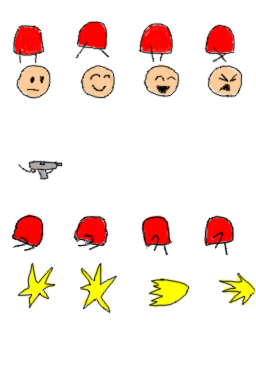
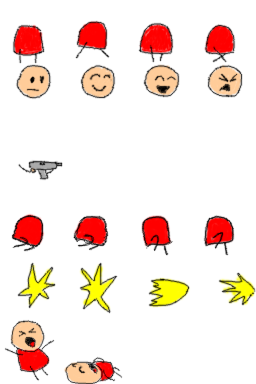
pleardeath, slowmo & back to menu

Changed region(s): [[0.0312, 0.8125, 0.2188, 1.0], [0.25, 0.9062, 0.4688, 1.0]]

diff --git a/core/src/com/madeso/platformer/GameScreen.java b/core/src/com/madeso/platformer/GameScreen.java
@@ -17,7 +17,7 @@ public class GameScreen implements Screen {
     private final OrthographicCamera fontCamera;
     private OrthographicCamera worldCamera;
     PlatformGame game;
-    Player dude;
+    WorldObject dude;
     OrthoMap map;
     GameWorld moveables = new GameWorld();
     Music music;
@@ -34,9 +34,11 @@ public class GameScreen implements Screen {
 
         this.map = game.assetManager.orthoMap(destructor, levelpath);
 
-        this.dude = new Player(this.moveables, game);
-        this.dude.teleport(70,70);
-        this.moveables.spawn(this.dude);
+        Player p = new Player(this.moveables, game);
+        p.teleport(70,70);
+        this.moveables.spawn(p);
+
+        this.dude = p;
 
         // ninja
         this.map.registerCreator("4", new OrthoMap.ObjectCreator() {
@@ -71,7 +73,13 @@ public class GameScreen implements Screen {
     public void render(float delta) {
         Gdx.gl.glClearColor(0, 0, 0, 1);
         Gdx.gl.glClear(GL20.GL_COLOR_BUFFER_BIT);
-        this.moveables.update(delta, this.map);
+        this.moveables.update(delta * GameState.dt, this.map);
+
+        if( GameState.dt > 0.9f && Gdx.input.isTouched() && dude.getClass() == PlayerBody.class ) {
+            game.setScreen(new MainMenuScreen(game));
+            this.dispose();
+            return;
+        }
 
         this.moveables.overlap(Bullet.class, Enemy.class, new GameWorld.Collision() {
             @Override
@@ -80,6 +88,16 @@ public class GameScreen implements Screen {
                 Enemy enemy = (Enemy) right;
                 bullet.destroy();
                 enemy.hurt(bullet.isFacingRight());
+            }
+        });
+
+        this.moveables.overlap(Player.class, Enemy.class, new GameWorld.Collision() {
+            @Override
+            public void collide(WorldObject left, WorldObject right) {
+                Player player = (Player)left;
+                Enemy other = (Enemy) right;
+                dude = player.kill(other.isFacingRight());
+                GameState.dt = 0.2f;
             }
         });
 
@@ -96,13 +114,15 @@ public class GameScreen implements Screen {
         this.fontCamera.update();
         this.game.batch.setProjectionMatrix(fontCamera.combined);
         game.batch.begin();
-        game.font.draw(game.batch, "gamestuff " + dude.toString(), 20, 20);
+        game.font.draw(game.batch, "gamestuff", 20, 20);
         game.batch.end();
     }
 
     private void cameraTrack(WorldObject dude, OrthographicCamera camera) {
-        camera.position.x = NiceValue(dude.getX());
-        camera.position.y = NiceValue(dude.getY());
+        if( dude != null ) {
+            camera.position.x = NiceValue(dude.getX());
+            camera.position.y = NiceValue(dude.getY());
+        }
     }
 
     private float NiceValue(float x) {

diff --git a/core/src/com/madeso/platformer/GenericBody.java b/core/src/com/madeso/platformer/GenericBody.java
@@ -6,21 +6,15 @@ import com.badlogic.gdx.graphics.g2d.SpriteBatch;
 import java.util.Random;
 
 
-public class Body extends GravityObject {
-    private final SmartAnimation dying;
-    private final SmartAnimation dead;
-    private final AnimationGroup anim;
-    private final SmartSound sounddeath;
+public class GenericBody extends GravityObject {
+    protected SmartAnimation dying;
+    protected SmartAnimation dead;
+    protected AnimationGroup anim;
     private float dx = 0;
     private static Random random = new Random();
 
-    public Body(PlatformGame game, int layer) {
+    public GenericBody(PlatformGame game) {
         super(game);
-
-        this.dying = game.assetManager.animation(this.destructor, "enemies.png").setAnimation(0.10f, new int[][]{ {layer,2} });
-        this.dead = game.assetManager.animation(this.destructor, "enemies.png").setAnimation(0.10f, new int[][]{ {layer,3} });
-        this.anim = this.createGroup(this.dying);
-        this.sounddeath = game.assetManager.sound(this.destructor, "enemydies.wav");
     }
 
     public void setup(float x, float y, boolean right, boolean direction) {
@@ -30,8 +24,6 @@ public class Body extends GravityObject {
         forcejump(150.0f + random.nextFloat() * 100.0f);
         dx = 1.0f;
         if( !direction ) dx = -1;
-        this.sounddeath.play();
-        GameState.murder();
 
         dx *= 0.5f + (random.nextFloat() / 0.5f);
     }

diff --git a/core/src/com/madeso/platformer/Player.java b/core/src/com/madeso/platformer/Player.java
@@ -17,6 +17,7 @@ public class Player extends GravityObject {
     private final SmartSound soundSoftThud;
     private final GameWorld world;
     private final SmartAnimation headMurder;
+    private PlayerBody pbody;
     private float airtime = 0.0f;
 
     private final SmartAnimation bodyIdle;
@@ -29,9 +30,17 @@ public class Player extends GravityObject {
     private float gcd = 0.0f;
     private final SmartSound soundGun;
 
+    @Override
+    public void dispose() {
+        super.dispose();
+        if( this.pbody != null )
+            this.pbody.dispose();
+    }
+
     public Player(GameWorld world, PlatformGame game) {
         super(game);
         this.world = world;
+        this.pbody = new PlayerBody(game);
 
         this.soundJump = game.assetManager.sound(this.destructor, "jump.wav");
         this.soundGun = game.assetManager.sound(this.destructor, "gun.wav");
@@ -164,5 +173,14 @@ public class Player extends GravityObject {
         subrender(this.body, batch, cam);
         subrender(this.head, batch, cam);
         subrender(this.gun, batch, cam);
+    }
+
+    public PlayerBody kill(boolean other) {
+        this.removeMe = true;
+        world.add(this.pbody);
+        this.pbody.setup(this.getX(), this.getY(), this.isFacingRight(), other);
+        PlayerBody ret = this.pbody;
+        this.pbody = null;
+        return ret;
     }
 }

diff --git a/core/src/com/madeso/platformer/PlayerBody.java b/core/src/com/madeso/platformer/PlayerBody.java
@@ -1,0 +1,27 @@
+package com.madeso.platformer;
+
+public class PlayerBody extends GenericBody {
+    private final SmartSound sounddeath;
+
+    public PlayerBody(PlatformGame game) {
+        super(game);
+
+        this.dying = game.assetManager.animation(this.destructor, "player.png").setAnimation(0.10f, new int[][]{ {5,0} });
+        this.dead = game.assetManager.animation(this.destructor, "player.png").setAnimation(0.10f, new int[][]{ {5,1} });
+        this.anim = this.createGroup(this.dying);
+        this.sounddeath = game.assetManager.sound(this.destructor, "playerdies.wav");
+    }
+
+    public void setup(float x, float y, boolean right, boolean direction) {
+        super.setup(x, y, right, direction);
+        this.sounddeath.play();
+    }
+
+    @Override
+    public void subupdate(float dt) {
+        super.subupdate(dt);
+        if( this.latestFlags.down) {
+            GameState.dt = 1;
+        }
+    }
+}

diff --git a/core/src/com/madeso/platformer/MainMenuScreen.java b/core/src/com/madeso/platformer/MainMenuScreen.java
@@ -8,6 +8,8 @@ import com.badlogic.gdx.graphics.OrthographicCamera;
 public class MainMenuScreen implements Screen {
     final PlatformGame game;
 
+    float waiter = 0;
+
     OrthographicCamera camera;
 
     public MainMenuScreen(final PlatformGame game) {
@@ -29,7 +31,9 @@ public class MainMenuScreen implements Screen {
         game.font.draw(game.batch, "Tap anywhere to begin!", 100, 100);
         game.batch.end();
 
-        if (Gdx.input.isTouched()) {
+        waiter += delta;
+
+        if (waiter > 1.0f && Gdx.input.isTouched()) {
             GameScreen.LoadWorld(game, 1);
             dispose();
         }

diff --git a/core/src/com/madeso/platformer/GameState.java b/core/src/com/madeso/platformer/GameState.java
@@ -3,6 +3,7 @@ package com.madeso.platformer;
 public class GameState {
 
     public static float murdering = 0.0f;
+    public static float dt = 1.0f;
 
     public static void murder() {
         murdering += 0.5f;
